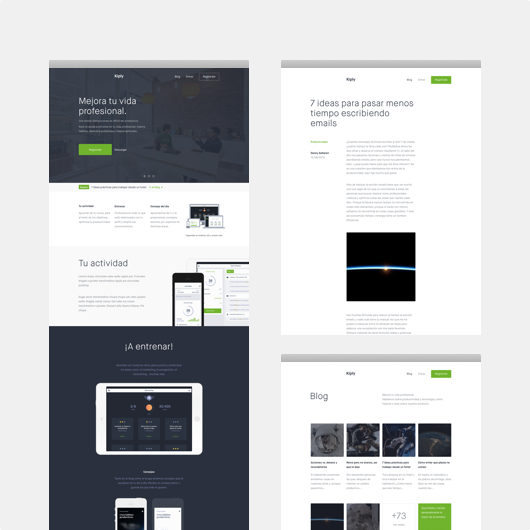
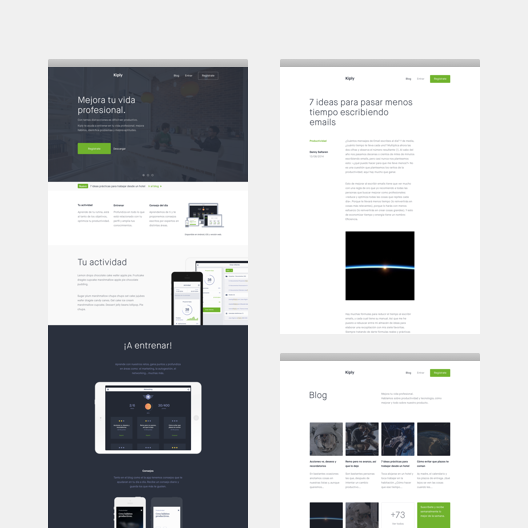
Visual and images tweaks, added kendo feed.

diff --git a/index.html b/index.html
@@ -105,23 +105,7 @@
       <div class="section-inner">
         <h2>Blog.</h2>
 
-        <ul class="home-blog-list unstyled">
-          <!-- <li class="home-blog-entry">
-            <time class="block">May 14, 2014</time>
-            <a href="#" class="home-blog-entry-title">Fever: The app that maps out Madrid and New York nightlife</a>
-            <p>We are basically the point where social networks meet entertainment and content.</p>
-          </li>
-          <li class="home-blog-entry">
-            <time class="block">May 14, 2014</time>
-            <a href="#" class="home-blog-entry-title">3 simple steps to become a better designer</a>
-            <p>All designers get stuck – especially in the beginning of their career.</p>
-          </li>
-          <li class="home-blog-entry">
-            <time class="block">May 14, 2014</time>
-            <a href="#" class="home-blog-entry-title">Tips and Tools of Color Schemes Usage For Web Developers</a>
-            <p>I have often witnessed an extraordinary design.</p>
-          </li> -->
-        </ul>
+        <ul class="home-blog-list unstyled"></ul>
 
         <a href="https://medium.com/kendo-studio" class="bt bt-light">Read more <i class="icon arrow-light"></i></a>
       </div>

diff --git a/css/s.css b/css/s.css
@@ -30,6 +30,7 @@
 * { padding: 0; margin: 0; box-sizing: border-box; }
 h1, h2, h3, h4 { font-weight: normal; }
 a { text-decoration: none; }
+img { max-width: 100%; height: auto; }
 
 
 
@@ -174,7 +175,7 @@ html {
   input, textarea, select, button {
     -webkit-appearance: none; /* 1 */
     font-family: "Maison Neue Book", helvetica, sans-serif;
-    padding: 1.5em 1em;
+    padding: 1.6em 1em 1.4em 1em;
     border: none;
     font-size: 18px;
     font-size: 1.8rem;
@@ -208,7 +209,7 @@ html {
     width: 100%;
     color: white;
     background: rgb(27,31,38);
-    padding: 1.3em;
+    padding: 1.4em 1.3em 1.1em;
     cursor: pointer;
   }
     .spinner {
@@ -295,7 +296,6 @@ html {
     }
     .work-collage img {
       width: 530px;
-      height: 530px;
     }
 
 
@@ -475,7 +475,7 @@ html {
   button {
     float: right;
     width: auto;
-    padding: 1.5em;
+    padding: 1.6em 1.5em 1.4em;
     width: 264px;
     width: 26.4rem;
   }

diff --git a/dist/css/s.css b/dist/css/s.css
@@ -30,6 +30,7 @@
 * { padding: 0; margin: 0; box-sizing: border-box; }
 h1, h2, h3, h4 { font-weight: normal; }
 a { text-decoration: none; }
+img { max-width: 100%; height: auto; }
 
 
 
@@ -176,7 +177,7 @@ html {
   input, textarea, select, button {
     -webkit-appearance: none; /* 1 */
     font-family: "Maison Neue Book", helvetica, sans-serif;
-    padding: 1.5em 1em;
+    padding: 1.6em 1em 1.4em 1em;
     border: none;
     font-size: 18px;
     font-size: 1.8rem;
@@ -212,7 +213,7 @@ html {
     width: 100%;
     color: white;
     background: rgb(27,31,38);
-    padding: 1.3em;
+    padding: 1.4em 1.3em 1.1em;
     cursor: pointer;
   }
     .spinner {
@@ -303,7 +304,6 @@ html {
     }
     .work-collage img {
       width: 530px;
-      height: 530px;
     }
 
 
@@ -483,7 +483,7 @@ html {
   button {
     float: right;
     width: auto;
-    padding: 1.5em;
+    padding: 1.6em 1.5em 1.4em;
     width: 264px;
     width: 26.4rem;
   }

diff --git a/dist/js/s.js b/dist/js/s.js
@@ -91,7 +91,7 @@ if (!supportsSVG()) {
 /**
  * Get posts from Medium
  */
-var feed = "https://medium.com/feed/lessons-learned";
+var feed = "https://medium.com/feed/kendo-studio";
 
 $.ajax({
   url: "https://ajax.googleapis.com/ajax/services/feed/load?v=1.0&q="+feed+"&num=3",
@@ -105,7 +105,8 @@ $.ajax({
         date    = post.publishedDate.split(" ").slice(0,4).join(" "),
         title   = post.title,
         link    = post.link,
-        summary = $(post.content).find("p:first").html();
+        summary = post.contentSnippet.replace("Continue reading on Medium »", "");
+        //summary = $(post.content).find("p:first").html();
 
     postsHTML += "<li class=home-blog-entry>\
       <time class=block>"+ date +"</time>\

diff --git a/js/s.js b/js/s.js
@@ -91,7 +91,7 @@ if (!supportsSVG()) {
 /**
  * Get posts from Medium
  */
-var feed = "https://medium.com/feed/lessons-learned";
+var feed = "https://medium.com/feed/kendo-studio";
 
 $.ajax({
   url: "https://ajax.googleapis.com/ajax/services/feed/load?v=1.0&q="+feed+"&num=3",
@@ -105,7 +105,7 @@ $.ajax({
         date    = post.publishedDate.split(" ").slice(0,4).join(" "),
         title   = post.title,
         link    = post.link,
-        summary = $(post.content).find("p:first").html();
+        summary = post.contentSnippet.replace("Continue reading on Medium »", "");
 
     postsHTML += "<li class=home-blog-entry>\
       <time class=block>"+ date +"</time>\
